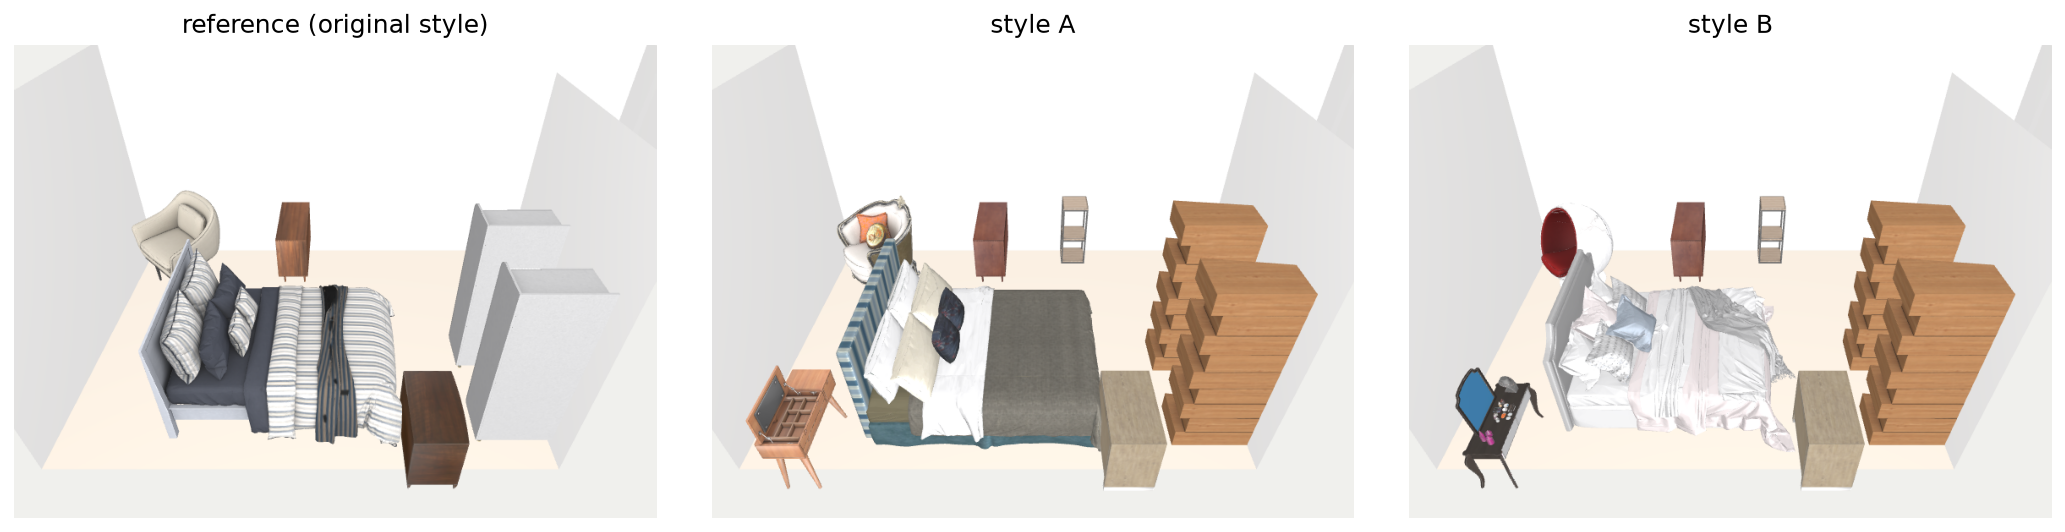
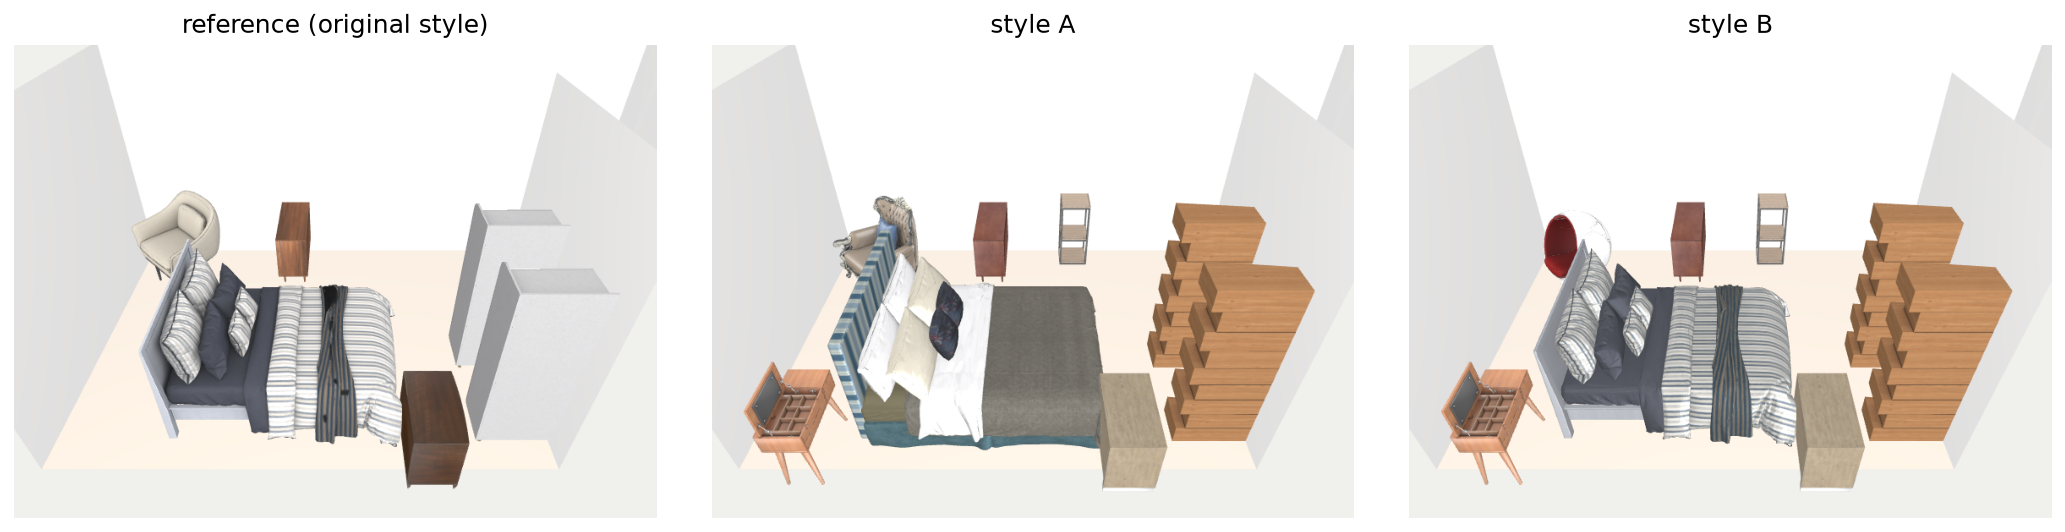
5.12: natural-size restyle so assets are not distorted (fixes weird look)
Retrieve style assets at their natural (size-matched) footprints instead of
forcing the reference's exact sizes, which was stretching assets into odd shapes.
Layout stays ~fixed because retrieval is size-matched; moderate lambda avoids
extreme picks.

diff --git a/v0.1.html b/v0.1.html
@@ -604,7 +604,7 @@ reference room's style centre and <em>coherence</em> among the chosen assets, si
 per-object fidelity does not imply that the set reads as one room.</p>
 <figure style="margin:22px 0">
 <img src="assets/v01_style_render.png" alt="Same layout retargeted under two style contexts: the style embedding retrieves different but size-compatible assets" style="width:100%;border:1px solid var(--line);border-radius:6px;display:block">
-<figcaption style="font-size:13.5px;color:var(--mut);margin-top:8px;line-height:1.6">Figure 11: style is a controllable appearance knob (real 3D-FUTURE meshes). One bedroom layout — every position, orientation and footprint held fixed — rendered under three style settings: its original assets (left) and two style contexts A and B. Changing only the style term re-selects each asset (bed, dresser, wardrobe, nightstand, accent chair) toward that context's style centre, while the layout <em>never moves</em> — same size, same layout. The <em>same</em> embedding also drives substitution during retargeting and population of a grown room, so a retargeted or enlarged room stays style-consistent (§3.6), and the style can be redirected by swapping the context. The weight is amplified to \(\lambda_\text{st}=0.4\) here for visibility; the deployed value is 0.12, a deliberate tie-breaker (§5.14) since a heavier weight trades legality for style (2.66→3.59% collision at 0.5).</figcaption>
+<figcaption style="font-size:13.5px;color:var(--mut);margin-top:8px;line-height:1.6">Figure 11: style is a controllable appearance knob (real 3D-FUTURE meshes). One bedroom layout — every position, orientation and footprint held fixed — rendered under three style settings: its original assets (left) and two style contexts A and B. Changing only the style term re-selects each asset (bed, dresser, wardrobe, nightstand, accent chair) toward that context's style centre, while the layout <em>never moves</em> — same size, same layout. The <em>same</em> embedding also drives substitution during retargeting and population of a grown room, so a retargeted or enlarged room stays style-consistent (§3.6), and the style can be redirected by swapping the context. The weight is amplified to \(\lambda_\text{st}=0.25\) here for visibility; the deployed value is 0.12, a deliberate tie-breaker (§5.14) since a heavier weight trades legality for style (2.66→3.59% collision at 0.5).</figcaption>
 </figure>
 <div class="note" style="background:var(--panel);border-left:3px solid var(--acc);padding:12px 16px;margin:16px 0">
 <p style="margin:0"><strong>Two corrections.</strong> We previously stated that
